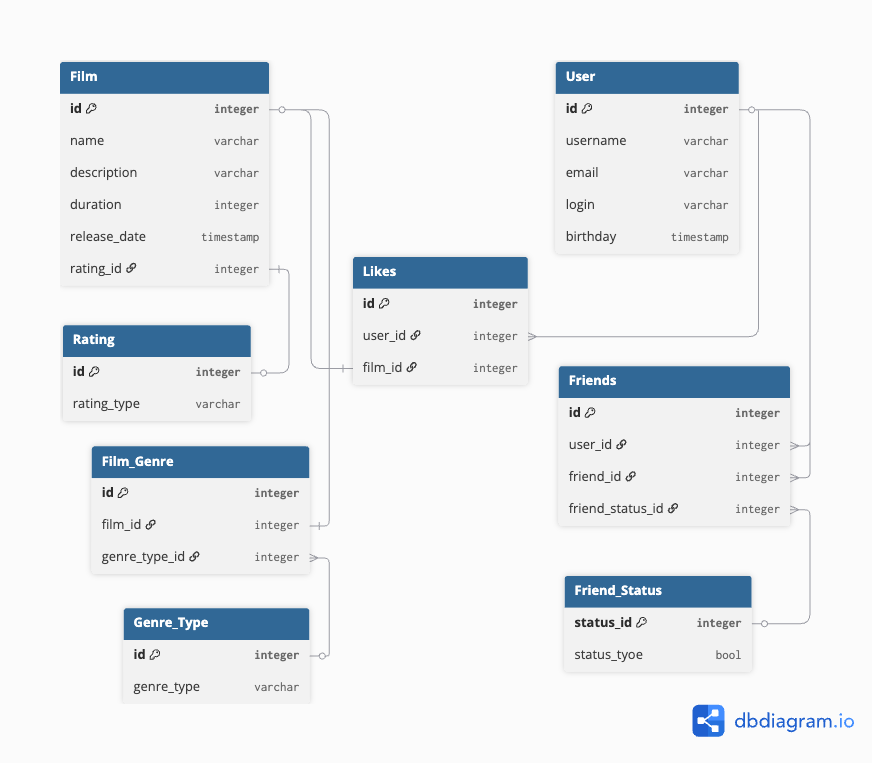
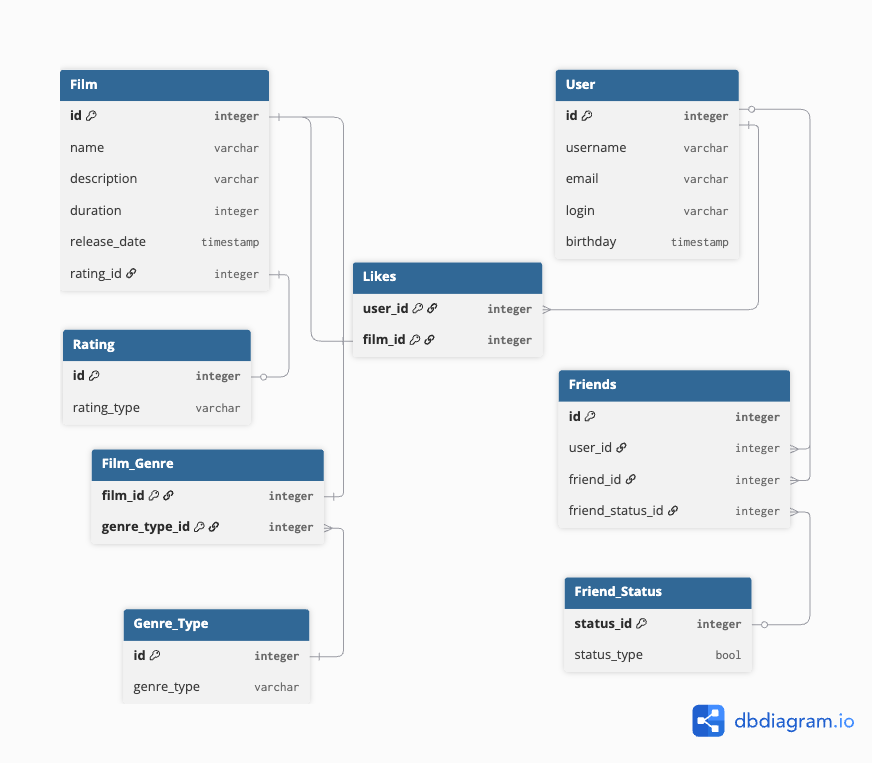
Промежуточное задание спринта Исправление замечаний

diff --git a/src/main/java/ru/yandex/practicum/filmorate/service/FriendshipService.java b/src/main/java/ru/yandex/practicum/filmorate/service/FriendshipService.java
@@ -1,0 +1,30 @@
+package ru.yandex.practicum.filmorate.service;
+
+import org.springframework.stereotype.Service;
+import ru.yandex.practicum.filmorate.enums.FriendStatus;
+
+import java.util.Set;
+
+@Service
+public class FriendshipService {
+
+    //Оставляю заявку в друзья По умолчанию false
+    public void addFriend(Long userId, Long friendId) {
+
+    }
+
+    // Подтверждаем дружбу - меняем статус на true
+    public void confirmFriend(Long userId, Long friendId) {
+
+    }
+
+    // запрос к БД возвращаю значение enum в зависимости от значения в БД
+    public FriendStatus getStatus(Long userId, Long friendId) {
+        return null;
+    }
+
+    // Верну всех друзей со статусом true
+    public Set<Long> getConfirmedFriends(Long userId) {
+        return null;
+    }
+}

diff --git a/src/main/java/ru/yandex/practicum/filmorate/model/Friendship.java b/src/main/java/ru/yandex/practicum/filmorate/model/Friendship.java
@@ -1,0 +1,14 @@
+package ru.yandex.practicum.filmorate.model;
+
+import lombok.AllArgsConstructor;
+import lombok.Data;
+import ru.yandex.practicum.filmorate.enums.FriendStatus;
+
+
+@Data
+@AllArgsConstructor
+public class Friendship {
+    private Long userId;
+    private Long friendId;
+    private FriendStatus status;
+}

diff --git a/src/main/java/ru/yandex/practicum/filmorate/model/Rating.java b/src/main/java/ru/yandex/practicum/filmorate/model/Rating.java
@@ -1,0 +1,15 @@
+package ru.yandex.practicum.filmorate.model;
+
+import lombok.EqualsAndHashCode;
+import lombok.Getter;
+import lombok.Setter;
+import lombok.ToString;
+
+@Getter
+@Setter
+@EqualsAndHashCode(of = "id")
+@ToString
+public class Rating {
+    private Long id;
+    private String ratingType;
+}

diff --git a/src/main/java/ru/yandex/practicum/filmorate/model/Film.java b/src/main/java/ru/yandex/practicum/filmorate/model/Film.java
@@ -17,8 +17,8 @@ import java.util.*;
 @ToString
 public class Film {
     Set<Long> likes = new HashSet<>();
-    Map<Long, List<String>> genre = new HashMap<>();
-    String rating;
+    List<String> genre;
+    Rating rating;
     Long id;
     String name;
     String description;

diff --git a/src/main/java/ru/yandex/practicum/filmorate/model/User.java b/src/main/java/ru/yandex/practicum/filmorate/model/User.java
@@ -14,5 +14,4 @@ public class User {
     String login;
     String name;
     LocalDate birthday;
-    boolean friendStatus;
 }

diff --git a/src/main/java/ru/yandex/practicum/filmorate/enums/FriendStatus.java b/src/main/java/ru/yandex/practicum/filmorate/enums/FriendStatus.java
@@ -1,0 +1,6 @@
+package ru.yandex.practicum.filmorate.enums;
+
+public enum FriendStatus {
+    UNCONFIRMED,
+    CONFIRMED
+}

diff --git a/README.md b/README.md
@@ -59,3 +59,56 @@ LEFT JOIN Film_Genre fg ON gt.id = fg.genre_type_id
 GROUP BY gt.id, gt.genre_type
 ORDER BY film_count DESC;
 ```
+<font size="4">6. Получение списка друзей пользователя</font>
+```
+SELECT u.id,
+       u.username,
+       u.email,
+       u.login,
+       u.birthday
+FROM User u
+JOIN Friends f
+    ON u.id = f.friend_id
+JOIN Friend_Status fs
+    ON f.friend_status_id = fs.status_id
+WHERE f.user_id = :userId
+  AND fs.status_tyoe = TRUE;
+```
+
+<font size="4">7. Получение списка неподтвержденных друзей пользователя</font>
+```
+SELECT u.id,
+       u.username,
+       u.email,
+       u.login,
+       u.birthday
+FROM User u
+JOIN Friends f
+    ON u.id = f.friend_id
+JOIN Friend_Status fs
+    ON f.friend_status_id = fs.status_id
+WHERE f.user_id = :userId
+  AND fs.status_tyoe = FALSE;
+```
+
+<font size="4">8. Проверка общих друзей двух пользователей</font>
+```
+SELECT u.id,
+       u.username,
+       u.email,
+       u.login,
+       u.birthday
+FROM User u
+JOIN Friends f1
+    ON u.id = f1.friend_id
+JOIN Friends f2
+    ON u.id = f2.friend_id
+JOIN Friend_Status fs1
+    ON f1.friend_status_id = fs1.status_id
+JOIN Friend_Status fs2
+    ON f2.friend_status_id = fs2.status_id
+WHERE f1.user_id = :userId1
+  AND f2.user_id = :userId2
+  AND fs1.status_tyoe = TRUE
+  AND fs2.status_tyoe = TRUE;
+```
